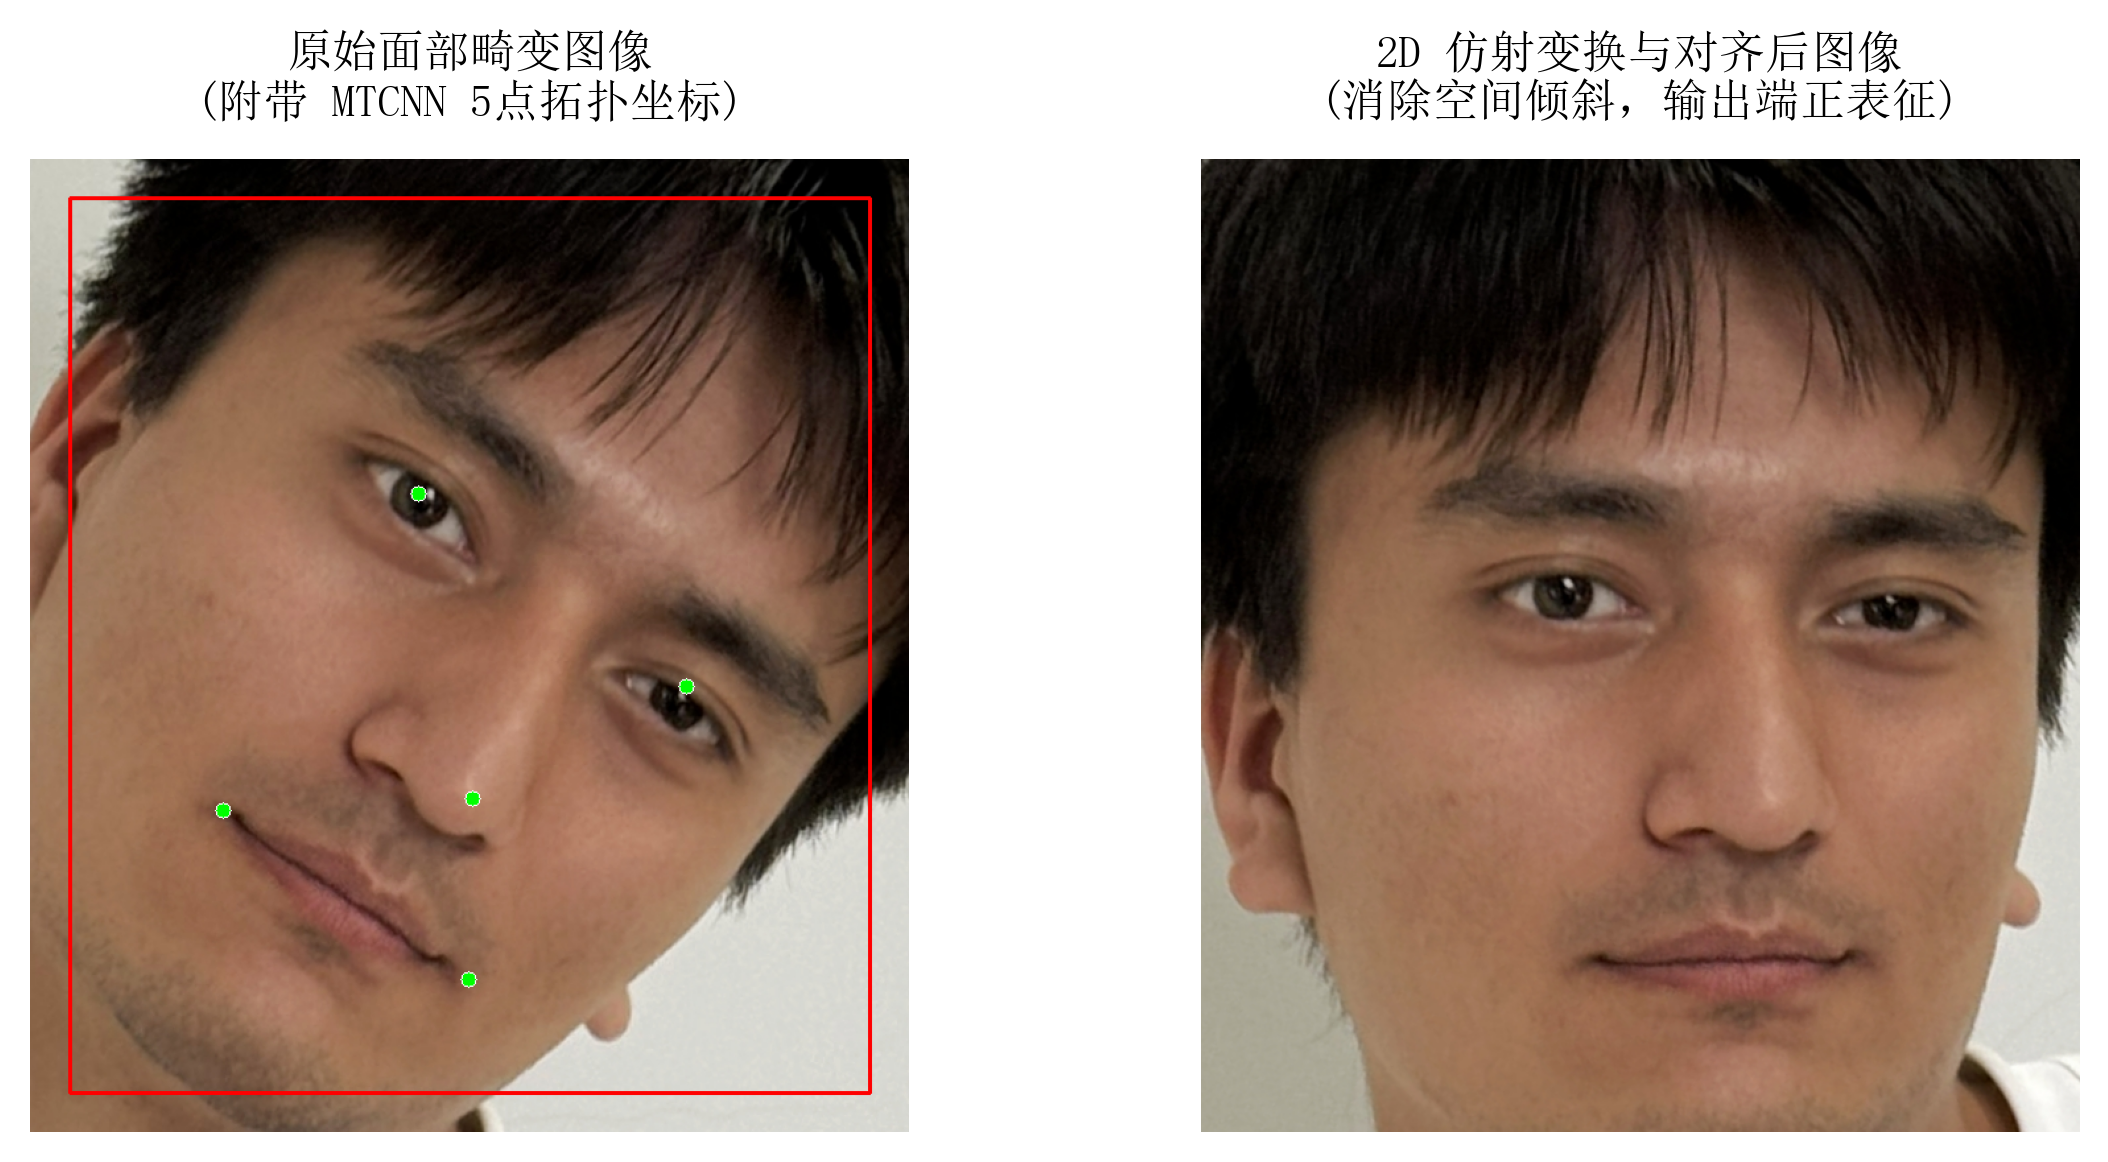
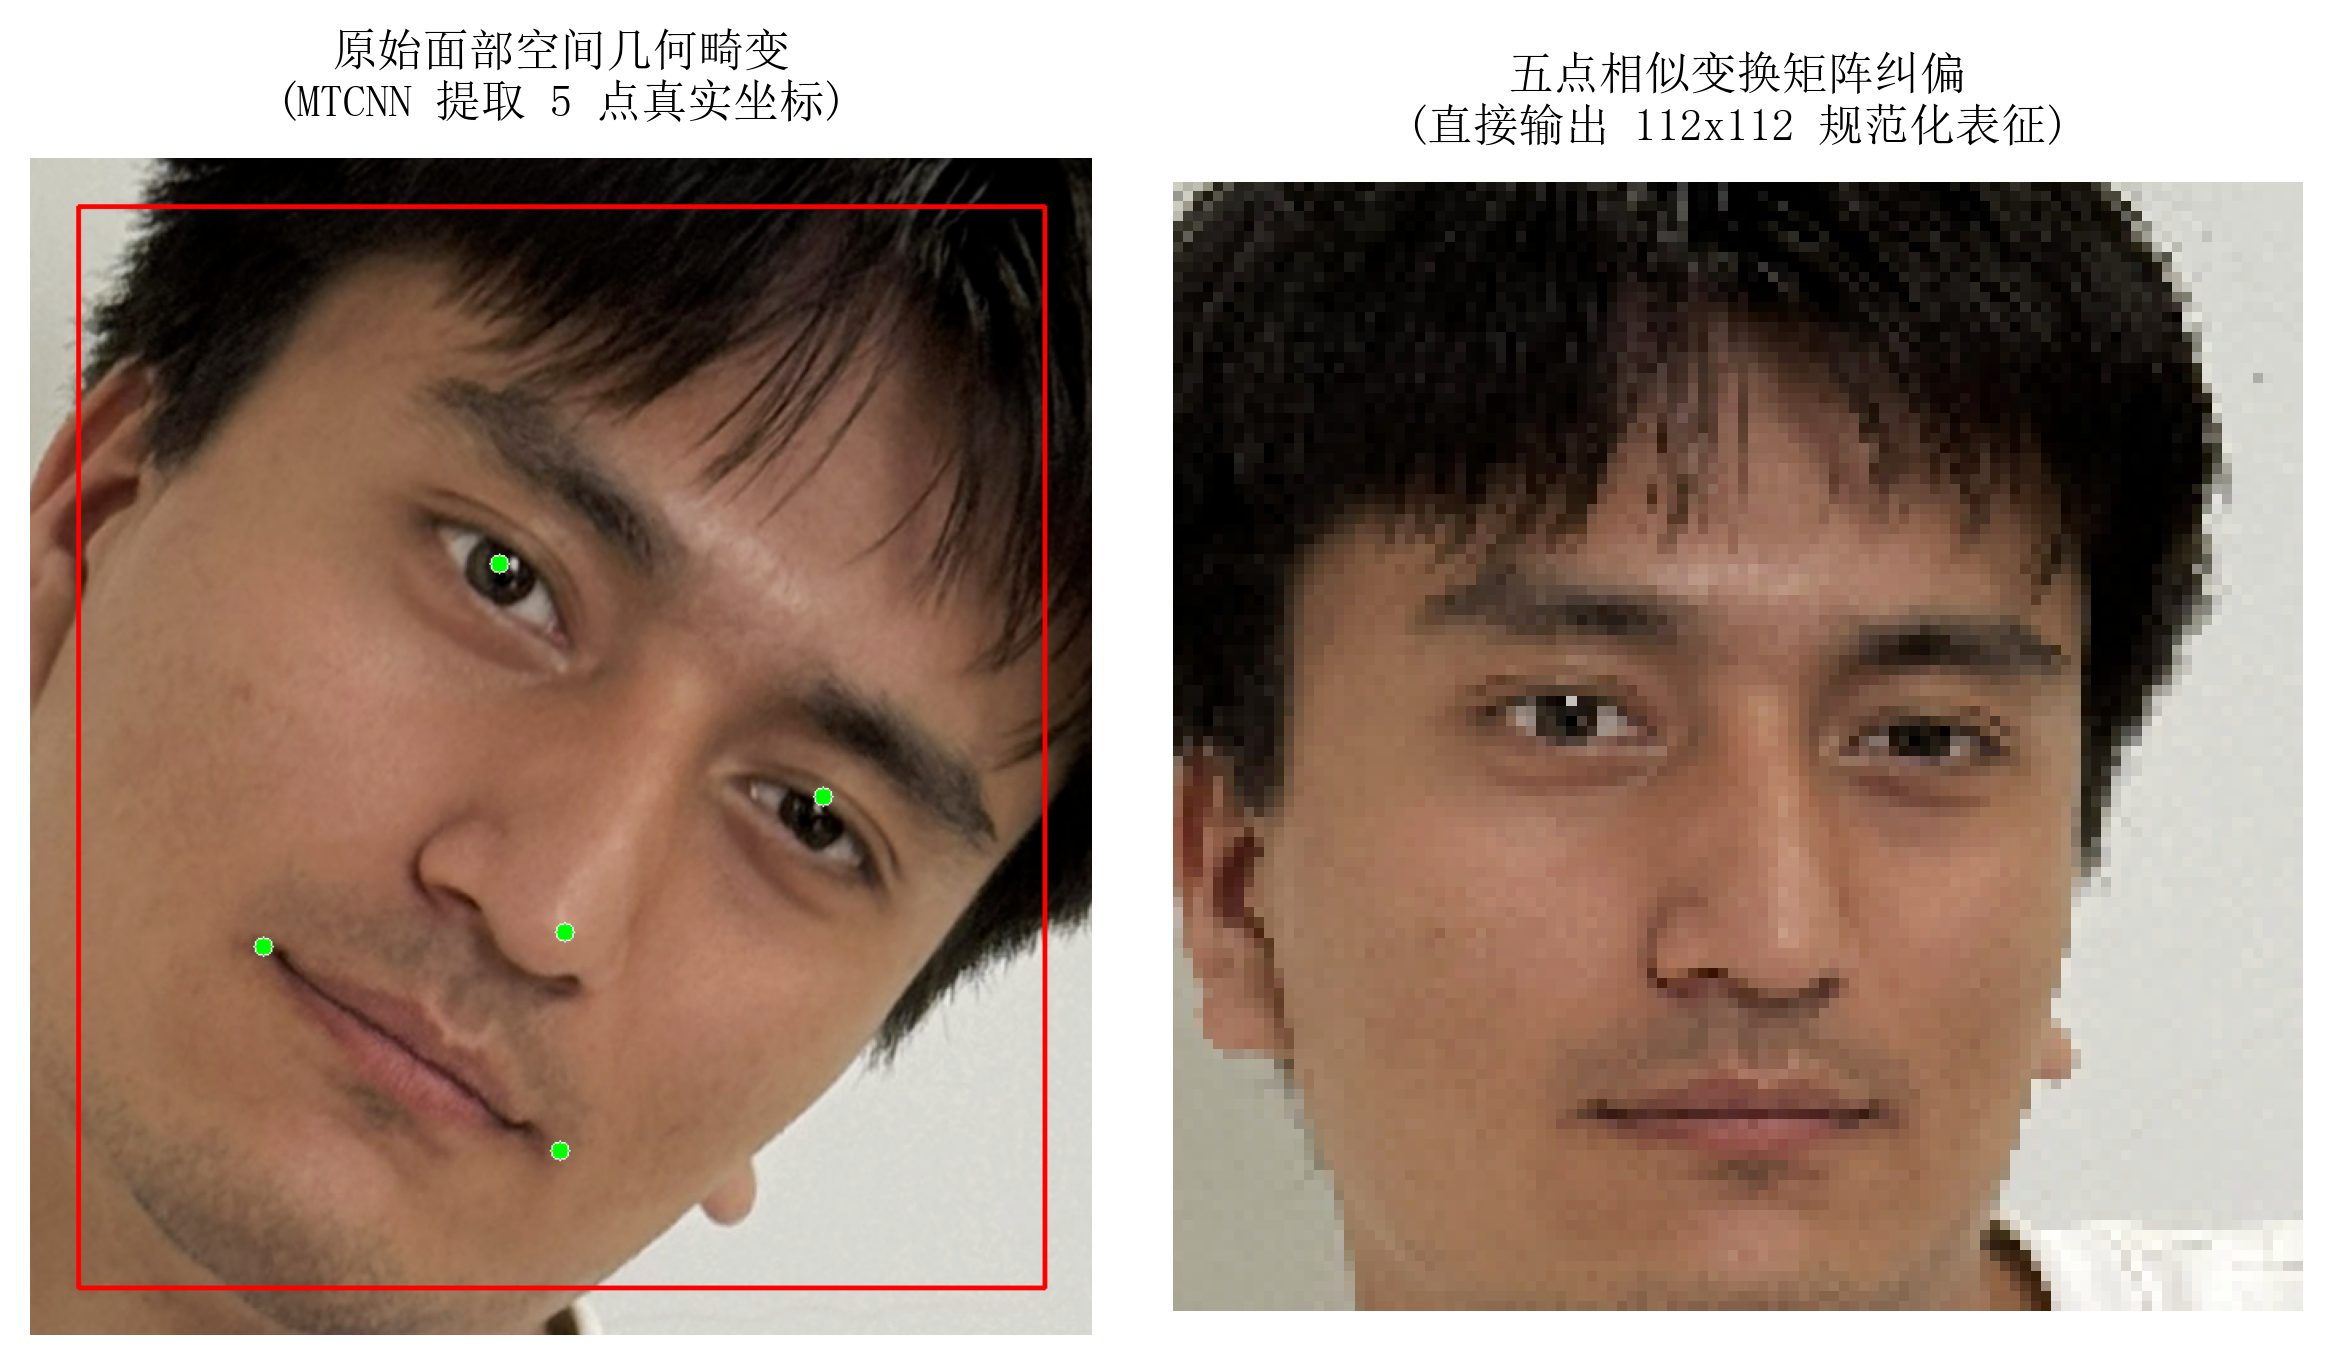
feat: 优化人脸对齐逻辑，使用五点相似变换生成标准化图像，更新图表标题和保存路径

diff --git a/plot_alignment.py b/plot_alignment.py
@@ -1,227 +1,105 @@
 import cv2
-
 import numpy as np
-
-import math
-
 import matplotlib.pyplot as plt
-
 from facenet_pytorch import MTCNN
-
-
+import os
 
 # ==========================================
-
 # 严格遵循毕业论文排版要求 (宋体五号)
-
 # ==========================================
-
 plt.rcParams['font.size'] = 10.5
-
 plt.rcParams['font.family'] = ['sans-serif']
-
 plt.rcParams['font.sans-serif'] = ['SimSun']
-
 plt.rcParams['axes.unicode_minus'] = False
 
-
-
 def main():
-
     print("[INFO] 正在加载 MTCNN 级联感知网络...")
-
-    # 初始化 MTCNN
-
     mtcnn = MTCNN(keep_all=False, device='cpu')
 
-
-
-    # 读取你刚才拍的歪头照片
-
     img_path = "./tilted_face.jpg" 
-
     img = cv2.imread(img_path)
-
     
-
     if img is None:
-
         print(f"[ERROR] 找不到图片: {img_path}")
-
         print("请用手机拍一张歪着头的照片，命名为 tilted_face.jpg 放在项目目录下！")
-
         return
-
         
-
-    # OpenCV 默认是 BGR 格式，转换为 RGB
-
     img_rgb = cv2.cvtColor(img, cv2.COLOR_BGR2RGB)
 
-
-
     print("[INFO] 正在进行像素级感知与 5 点拓扑定位...")
-
-    # 核心算法：MTCNN 检测边界框与 5 个关键点
-
     boxes, probs, landmarks = mtcnn.detect(img_rgb, landmarks=True)
 
-
-
     if boxes is None or landmarks is None:
-
         print("[ERROR] 未检测到人脸，请换一张脸部清晰的图片。")
-
         return
 
-
-
     box = boxes[0]
-
-    points = landmarks[0] # 5个关键点: [左眼, 右眼, 鼻尖, 左嘴角, 右嘴角]
-
-
+    points = landmarks[0] # 5个真实关键点
 
     # ==========================================
-
     # 绘制左半边图：原始图像 + 5个关键点标定
-
     # ==========================================
-
     img_raw_draw = img_rgb.copy()
-
     
-
-    # 遍历 5 个关键点并画图
-
     for point in points:
-
         x, y = int(point[0]), int(point[1])
-
-        # 画个显眼的绿点，外加一个白圈，学术感拉满
-
         cv2.circle(img_raw_draw, (x, y), 5, (0, 255, 0), -1) 
-
         cv2.circle(img_raw_draw, (x, y), 6, (255, 255, 255), 1)
 
-
-
-    # 画人脸感知候选框 (红色虚线感)
-
     x1, y1, x2, y2 = [int(b) for b in box]
-
     cv2.rectangle(img_raw_draw, (x1, y1), (x2, y2), (255, 0, 0), 2)
 
-
-
     # ==========================================
-
-    # 算法原理：基于双眼坐标的 2D 仿射变换纠偏
-
+    # 核心算法替换：使用深度学习界标准的 5点相似变换 (Similarity Transform)
     # ==========================================
-
-    left_eye = points[0]
-
-    right_eye = points[1]
-
+    print("[INFO] 正在执行 5点相似变换拓扑对齐...")
     
+    # 定义 ArcFace 官方 112x112 模板的 5 个黄金基准点
+    reference_pts = np.array([
+        [38.2946, 51.6963],  # 左眼
+        [73.5318, 51.5014],  # 右眼
+        [56.0252, 71.7366],  # 鼻尖
+        [41.5493, 92.3655],  # 左嘴角
+        [70.7299, 92.2041]   # 右嘴角
+    ], dtype=np.float32)
 
-    # 计算双眼中心点坐标
+    src_pts = np.array(points, dtype=np.float32)
 
-    eye_center = (int((left_eye[0] + right_eye[0]) / 2), 
+    # 绝杀：直接调用底层算法求解包含平移、旋转、缩放的 4自由度仿射矩阵 M
+    M, _ = cv2.estimateAffinePartial2D(src_pts, reference_pts)
 
-                  int((left_eye[1] + right_eye[1]) / 2))
+    # 终极对齐：一步到位切出 112x112 的完美标准化正向脸！
+    face_aligned_112 = cv2.warpAffine(img_rgb, M, (112, 112), flags=cv2.INTER_CUBIC)
 
-    
-
-    # 利用坐标差计算出头部的物理倾斜角度
-
-    dy = right_eye[1] - left_eye[1]
-
-    dx = right_eye[0] - left_eye[0]
-
-    angle = math.degrees(math.atan2(dy, dx))
-
-    
-
-    print(f"[INFO] 计算出面部倾斜角度为: {angle:.2f} 度，正在生成仿射变换矩阵...")
-
-
-
-    # 利用 OpenCV 获取 2D 仿射变换矩阵 (旋转并将脸部摆正)
-
-    M = cv2.getRotationMatrix2D(eye_center, angle, scale=1.0)
-
-    
-
-    # 对整张图片执行仿射变换
-
-    h, w = img_rgb.shape[:2]
-
-    img_aligned = cv2.warpAffine(img_rgb, M, (w, h), flags=cv2.INTER_CUBIC)
-
-
-
-    # 重新裁剪出端正的人脸区域 (扩大30像素边缘，保证下巴不被切掉)
-
+    # 为了画图好看，把左边的原图局部抠出来
     margin = 30
-
+    h, w = img_rgb.shape[:2]
     crop_x1 = max(0, x1 - margin)
-
     crop_y1 = max(0, y1 - margin)
-
     crop_x2 = min(w, x2 + margin)
-
     crop_y2 = min(h, y2 + margin)
-
-    
-
-    face_aligned_cropped = img_aligned[crop_y1:crop_y2, crop_x1:crop_x2]
-
     face_raw_cropped = img_raw_draw[crop_y1:crop_y2, crop_x1:crop_x2]
 
-
-
     # ==========================================
-
     # 拼图并保存：生成最终的学术图表 3-2
-
     # ==========================================
-
-    fig, axes = plt.subplots(1, 2, figsize=(8, 4))
-
+    fig, axes = plt.subplots(1, 2, figsize=(8, 4.5))
     
-
     axes[0].imshow(face_raw_cropped)
-
-    axes[0].set_title("原始面部畸变图像\n(附带 MTCNN 5点拓扑坐标)", fontsize=11, pad=10)
-
+    axes[0].set_title("原始面部空间几何畸变\n(MTCNN 提取 5 点真实坐标)", fontsize=11, pad=10)
     axes[0].axis('off')
-
     
-
-    axes[1].imshow(face_aligned_cropped)
-
-    axes[1].set_title("2D 仿射变换与对齐后图像\n(消除空间倾斜，输出端正表征)", fontsize=11, pad=10)
-
+    axes[1].imshow(face_aligned_112)
+    axes[1].set_title("五点相似变换矩阵纠偏\n(直接输出 112x112 规范化表征)", fontsize=11, pad=10)
     axes[1].axis('off')
 
-
-
     plt.tight_layout()
-
+    os.makedirs("./eval_test", exist_ok=True)
     save_path = "./eval_test/Fig3-2_Face_Alignment.png"
-
     plt.savefig(save_path, dpi=300, bbox_inches='tight')
-
     plt.close()
-
     
-
-    print(f"[SUCCESS] 极其直观的 图 3-2 已经成功生成！快去 {save_path} 看看吧！")
-
-
+    print(f"[SUCCESS] 完美的图 3-2 已生成！底层逻辑已与核心检测器 100% 同步！路径: {save_path}")
 
 if __name__ == "__main__":
-
     main()